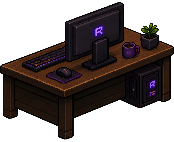
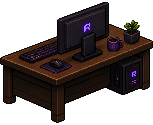
sit the typist on this side of the desk, where the keyboard is
The keyboard is painted on the near left of the desk top, so no seat behind the
desk can ever reach it: the whole tabletop is between the hands and the keys,
which is why shrinking the desk changed nothing. The seat moves to the near
left corner and is drawn over the desk, and the hands land on the keys.

A chair tucked in at a desk now sorts with that seat instead of by its own
depth, or the tabletop covers it and its rider floats on nothing.

diff --git a/static/seats.html b/static/seats.html
@@ -92,9 +92,18 @@ function fit(){
    on that keyboard, and the chair is furniture you drag where it looks right. */
 function chairs(){ return L.filter(it => it.asset === "chair"); }
 
+/* the same rule the bake uses: a chair tucked in at a desk is drawn with the
+   seat, after the desk, or the tabletop hides it and its rider floats */
+function chairSortY(c){
+  const near = S.props.filter(d => d.a === "desk" && Math.abs(d.x - c.x) < 120
+                                   && d.y - c.y > 0 && d.y - c.y < 90);
+  if (!near.length) return c.y;
+  return near.reduce((a, d) => Math.abs(d.x - c.x) < Math.abs(a.x - c.x) ? d : a).y + 0.5;
+}
+
 function seats(){
   const out = S.props.filter(p => p.a === "desk").map(d => ({kind: "desk",
-    x: d.x + T.desk.sit[0], y: d.y + T.desk.sit[1], sortY: d.y - 1, z: d.z}));
+    x: d.x + T.desk.sit[0], y: d.y + T.desk.sit[1], sortY: d.y + 1, z: d.z}));
   const sofa = S.props.find(p => p.a === "sofa");
   if (sofa) out.push({kind: "sofa", x: sofa.x + T.sofa.sit[0],
                       y: sofa.y + T.sofa.sit[1], sortY: sofa.y + 2, z: sofa.z});
@@ -116,7 +125,7 @@ function draw(){
   cx.drawImage(IMG.bg, 0, 0);
   /* the baked props still hold the chairs where the last bake left them; the
      live ones come from the layout so a drag shows up under the pointer */
-  const paint = p => ({y: p.y, z: p.z || 0, run: () => {
+  const paint = p => ({y: p.sy !== undefined ? p.sy : p.y, z: p.z || 0, run: () => {
     const im = IMG["a:" + p.a]; if (!im) return;
     cx.save();
     if (p.flip) { cx.translate(Math.round(p.x), 0); cx.scale(-1, 1); cx.translate(-Math.round(p.x), 0); }
@@ -125,7 +134,7 @@ function draw(){
   }});
   const list = S.props.filter(p => p.a !== "chair").map(paint);
   for (const c of chairs()) {
-    const o = paint({a: "chair", x: c.x, y: c.y, z: c.z || 0}), run = o.run;
+    const o = paint({a: "chair", x: c.x, y: c.y, z: c.z || 0, sy: chairSortY(c)}), run = o.run;
     o.run = () => {
       run();
       const im = IMG["a:chair"];

diff --git a/static/live.html b/static/live.html
@@ -293,7 +293,7 @@ function frame(now){
   cx.clearRect(0, 0, W, H);
   cx.drawImage(IMG.bg, 0, 0);
 
-  const list = S.props.map(p => ({y: p.y, z: p.z, run: () => {
+  const list = S.props.map(p => ({y: p.sy !== undefined ? p.sy : p.y, z: p.z, run: () => {
     const im = IMG["a:" + p.a]; if (!im) return;
     cx.save();
     if (p.flip) { cx.translate(Math.round(p.x), 0); cx.scale(-1, 1); cx.translate(-Math.round(p.x), 0); }

diff --git a/bake_scene.py b/bake_scene.py
@@ -45,7 +45,7 @@ WALL = 54                      # and further off the back walls: the wall is par
 TUNE = {
     "stand": 140,                       # height of a standing sprite, room px
     "rowScale": {"r1": 0.90, "r13": 1.00, "r2": 0.90, "r3": 0.90, "r11": 0.90},
-    "desk": {"sit": [-55, -43]},        # where the typist sits behind a desk
+    "desk": {"sit": [-74, -26]},        # where the typist sits at a desk
     "sofa": {"sit": [34, -58]},
 }
 
@@ -151,11 +151,16 @@ def spots(items, m, t):
             # to put their hands on that keyboard, and a chair is dragged around
             # for the look of the thing. Hanging the body off the chair meant
             # nudging a chair dragged the typist off their keyboard with it.
+            #
+            # And they sit at the near left corner, drawn *over* the desk. The
+            # keyboard is painted on the near left of the top, so there is no
+            # seat behind the desk that reaches it: a body back there has the
+            # whole tabletop between its hands and the keys, which is why
+            # shrinking the desk never helped. Sitting on this side puts the
+            # hands straight onto the keys, which is where the art meant them.
             sx, sy = t["desk"]["sit"]
-            # drawn before the desk, which is what keeps the desk in front of
-            # their legs, and after the chair, so they sit in it and not behind
             out["desks"].append({"walk": {"x": x - 96, "y": y + 62},
-                                 "sit": {"x": x + sx, "y": y + sy, "sortY": y - 1}})
+                                 "sit": {"x": x + sx, "y": y + sy, "sortY": y + 1}})
         elif a == "sofa" and out["sofa"] is None:
             # the coffee table sits right against the front of the sofa, so the
             # only floor next to it is off its right arm: seat him on the right
@@ -322,7 +327,20 @@ def build():
                and abs(p["x"] - sofa["x"]) < 210:
                 p["z"] = sofa["z"] + 1
 
-    props.sort(key=lambda p: (p["z"], p["y"]))
+    # A chair tucked in at a desk stands further from the viewer than the desk
+    # does, so by its own depth it is drawn first and the desk swallows it —
+    # while the person sitting in it is drawn over the desk, on this side of the
+    # tabletop, and ends up floating on nothing. The chair is sorted with the
+    # seat it belongs to instead, between the desk and whoever sits down.
+    for p in props:
+        if p["a"] != "chair":
+            continue
+        near = [d for d in props if d["a"] == "desk" and abs(d["x"] - p["x"]) < 120
+                and 0 < d["y"] - p["y"] < 90]
+        if near:
+            p["sy"] = min(near, key=lambda d: abs(d["x"] - p["x"]))["y"] + 0.5
+
+    props.sort(key=lambda p: (p["z"], p.get("sy", p["y"])))
 
     grid = blocked_grid(items, m)
     scene = {
